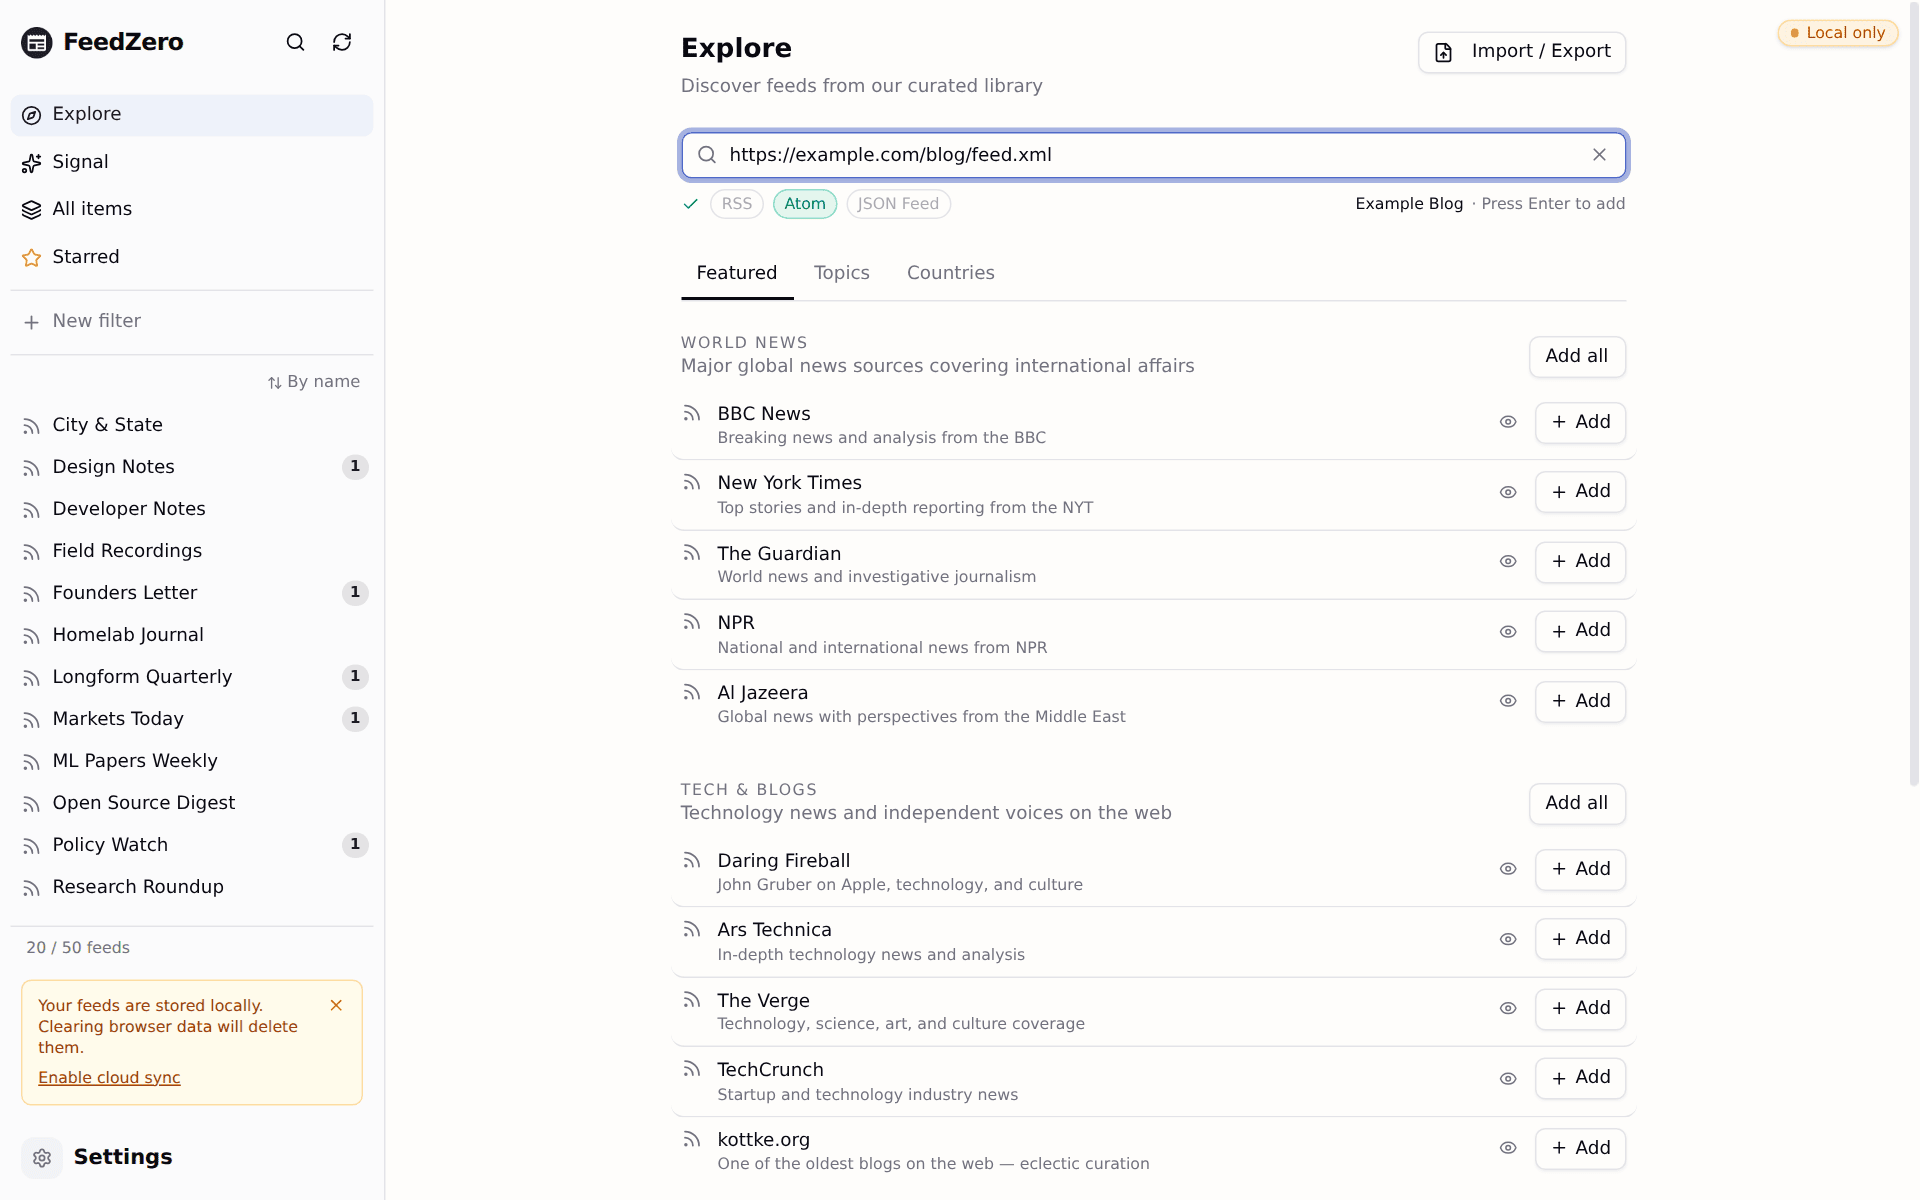
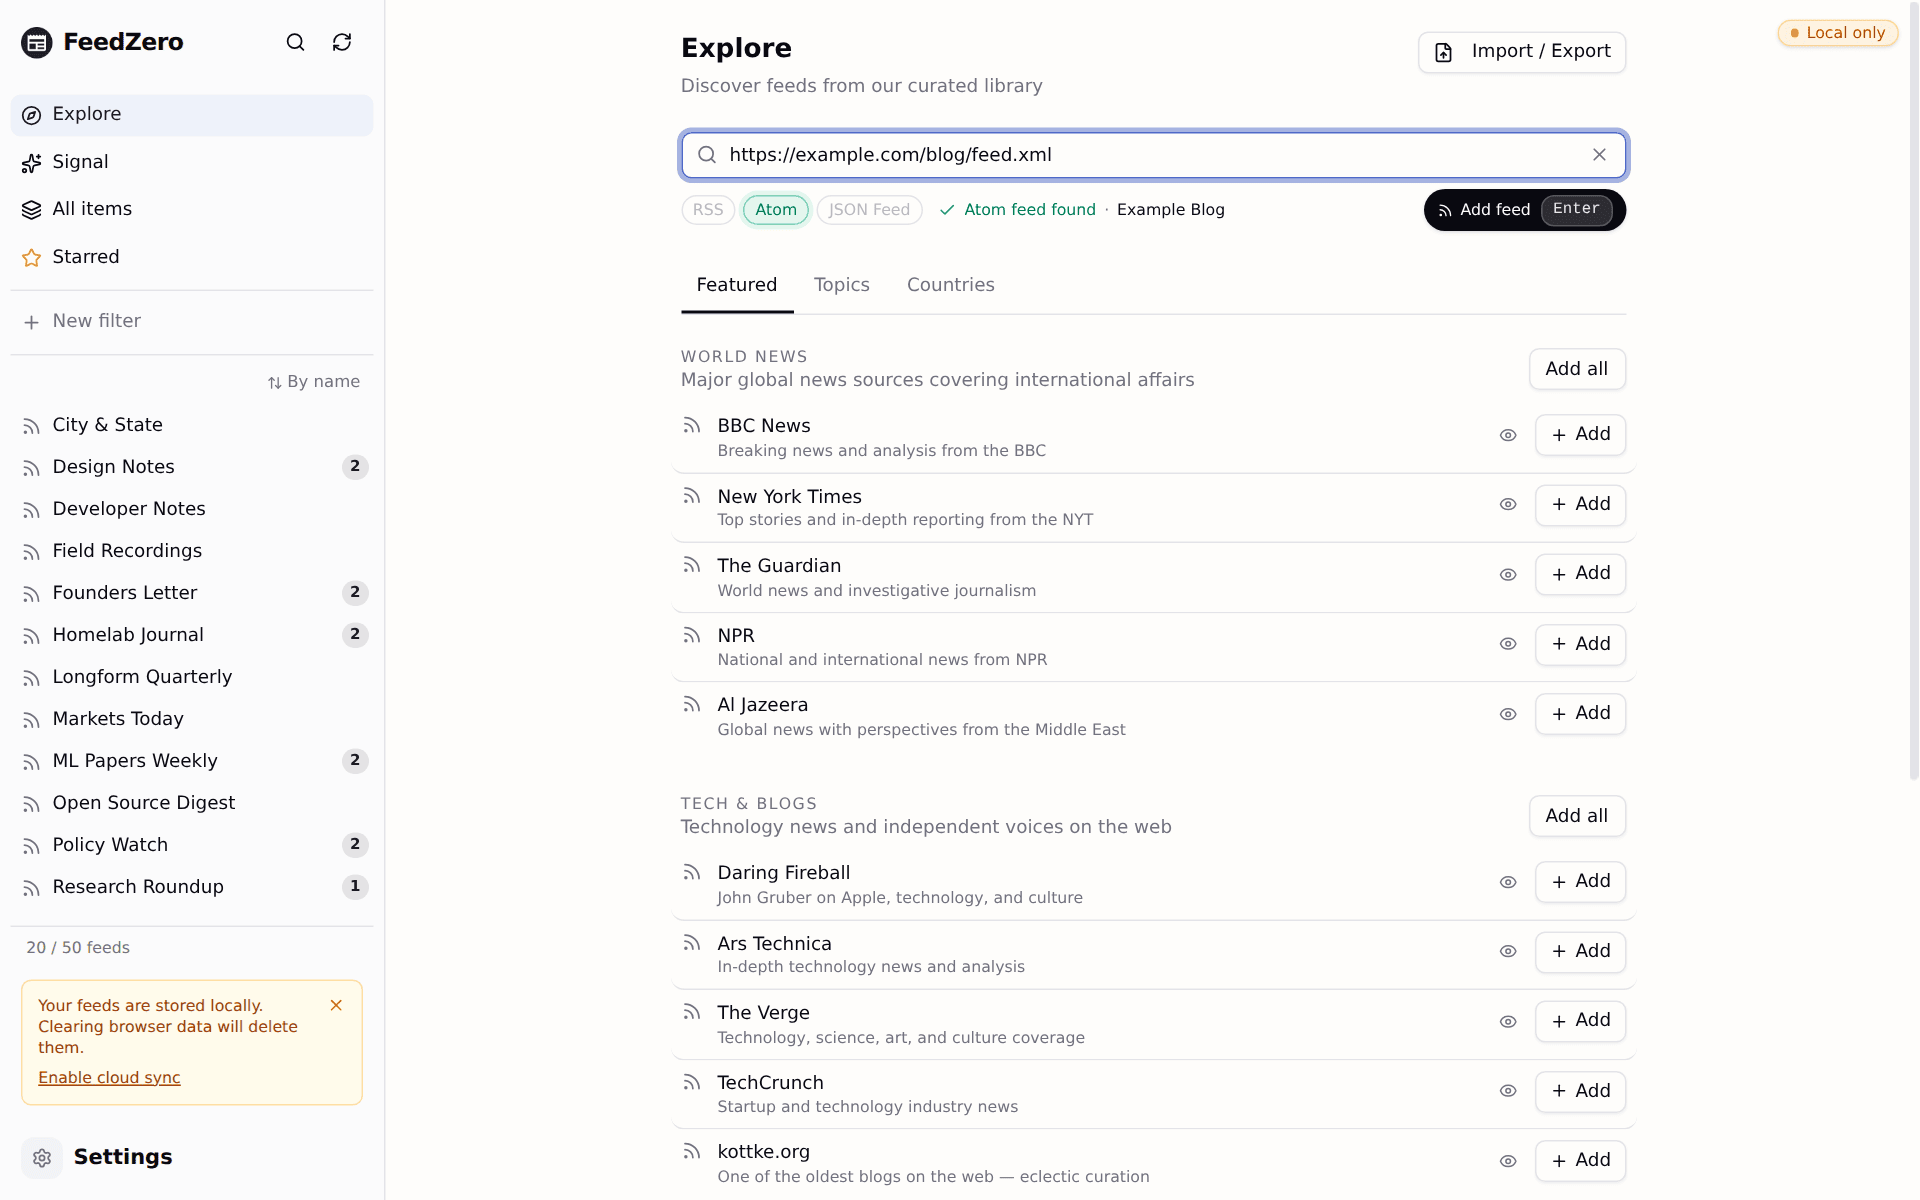
feat(explore): clearer discovery chip — "Atom feed found", "Add feed" button
Three improvements to the chip that lands under the Explore URL input.

1. **Detection result is explicit.** Replaces the muted "Example Blog ·
   Press Enter to add" trailing copy with a celebratory headline:
   "✓ Atom feed found · Example Blog". The matched format pill gets a
   subtle emerald glow ring so it actually pops against the unmatched
   pills.

2. **"Add feed" is now a clickable button.** A solid pill on the right
   of the chip with the feed icon + "Add feed" + a Kbd-styled "Enter"
   key, so mouse users have a visible affordance instead of having to
   know about the keyboard shortcut. Disabled + spinner state while
   addFeed is in flight. Routes through the same `submitUrl` callback
   that the form's Enter submission uses — single code path.

3. **Failure copy is gentler and more actionable.** Replaces "No feed
   found at that URL yet" with "We couldn't find a feed there. Try
   the homepage URL — we'll autodiscover." — the actual recovery path.

The probe-after-debounce behaviour was already correct (400ms timer →
previewFeed → state update), but the success state was failing to
celebrate itself, so users didn't see the discovery had happened.

Tests: 2 new (`celebrates the discovery…`, `renders a clickable Add
button…`, `does not render the Add button…`). The "Add button" test
covers the click-handler contract via an `onAdd` prop — same code
path the form's onSubmit uses. 8/8 chip tests pass; 3453 across the
whole suite.
[…]

diff --git a/src/components/explore/feed-format-chip.tsx b/src/components/explore/feed-format-chip.tsx
@@ -1,30 +1,33 @@
 import { useEffect, useRef, useState } from "react";
-import { Check, Loader2 } from "lucide-react";
+import { Check, Loader2, Rss, X } from "lucide-react";
 import { cn } from "@/lib/utils";
+import { Kbd } from "@/components/ui/kbd";
 import { previewFeed } from "@/core/feeds/feed-service";
 import type { FeedFormat } from "@/core/parser/parser";
 
 /**
- * The discovery chip that lives under the Explore URL input.
+ * Discovery chip under the Explore URL input.
  *
- * When the user pastes (or types) a URL, we silently probe it via
- * `previewFeed` after a brief debounce. The chip shows three format
- * pills — RSS, Atom, JSON Feed — and lights up the one feedsmith
- * actually identified. While probing, all three pills animate to
- * communicate "we're checking every format the publisher might be
- * serving".
+ * Lifecycle:
+ *   user types/pastes  →  400ms debounce  →  previewFeed() probe  →
+ *     · `found <fmt>`  — matched pill highlights; feed title appears;
+ *                        a clickable "Add feed" button (= Enter) shows
+ *     · `probing`      — spinner + "Checking…" while the probe runs
+ *     · `not-found`    — gentle "We couldn't find a feed there" copy
  *
- * This is the affordance the landing-page copy ("Paste any URL.
- * FeedZero finds the feed.") had been claiming with nothing visible
- * to back it up.
+ * The chip is the affordance the landing copy ("Paste any URL.
+ * FeedZero finds the feed.") implied; the Add button on success makes
+ * the headline action discoverable without keyboard knowledge.
  *
- * Tier note: bridges are off here — discovery against an arbitrary URL
- * is cheap, but the bridge cascade (YouTube/Reddit/Mastodon) is gated
- * to Personal and runs inside `addFeed` proper. The chip is a preview;
- * the headline action is still Enter → add.
+ * The `onAdd` callback is optional — when omitted the chip is a pure
+ * status indicator (the form still submits on Enter via its parent).
+ * When provided, clicking the button runs the same code path.
  */
 interface FeedFormatChipProps {
   url: string;
+  onAdd?: () => void;
+  /** Disable the Add button while an outer add-feed call is in flight. */
+  isAdding?: boolean;
 }
 
 type ChipState =
@@ -41,7 +44,14 @@ const FORMAT_LABELS: { format: FeedFormat; label: string }[] = [
   { format: "json", label: "JSON Feed" },
 ];
 
-export function FeedFormatChip({ url }: FeedFormatChipProps) {
+/** Format name for the celebratory headline ("Atom feed found"). */
+function formatHeadline(format: FeedFormat): string {
+  if (format === "rss") return "RSS";
+  if (format === "atom") return "Atom";
+  return "JSON";
+}
+
+export function FeedFormatChip({ url, onAdd, isAdding }: FeedFormatChipProps) {
   const [state, setState] = useState<ChipState>({ kind: "idle" });
   const generationRef = useRef(0);
 
@@ -60,7 +70,7 @@ export function FeedFormatChip({ url }: FeedFormatChipProps) {
         setState({
           kind: "found",
           format: result.value.format,
-          title: result.value.title,
+          title: result.value.title || trimmed,
         });
       } else {
         setState({ kind: "not-found" });
@@ -80,14 +90,8 @@ export function FeedFormatChip({ url }: FeedFormatChipProps) {
       data-testid="feed-format-chip"
       data-state={state.kind}
       data-format={found ? state.format : undefined}
-      className="mt-2 flex items-center gap-2 text-xs"
+      className="mt-2 flex items-center gap-3 text-xs"
     >
-      {probing && (
-        <Loader2 className="size-3 animate-spin text-muted-foreground" />
-      )}
-      {found && (
-        <Check className="size-3.5 text-emerald-600 dark:text-emerald-500" />
-      )}
       <div className="flex items-center gap-1.5">
         {FORMAT_LABELS.map(({ format, label }) => {
           const active = found && state.format === format;
@@ -99,12 +103,12 @@ export function FeedFormatChip({ url }: FeedFormatChipProps) {
               className={cn(
                 "inline-flex items-center rounded-full border px-2 py-0.5 font-medium transition-all duration-300",
                 active &&
-                  "border-emerald-500/40 bg-emerald-500/10 text-emerald-700 dark:text-emerald-300",
+                  "border-emerald-500/50 bg-emerald-500/10 text-emerald-700 dark:text-emerald-300 shadow-[0_0_0_3px_var(--tw-shadow-color)] shadow-emerald-500/10",
                 !active &&
                   found &&
-                  "border-border bg-transparent text-muted-foreground/60",
+                  "border-border bg-transparent text-muted-foreground/50",
                 probing &&
-                  "border-border bg-transparent text-muted-foreground animate-pulse",
+                  "border-border bg-transparent text-muted-foreground/70 animate-pulse",
                 notFound && "border-border bg-transparent text-muted-foreground/40",
               )}
             >
@@ -113,18 +117,64 @@ export function FeedFormatChip({ url }: FeedFormatChipProps) {
           );
         })}
       </div>
-      <span className="ml-auto text-muted-foreground">
-        {probing && "Checking every format…"}
-        {found && (
+
+      <div className="flex min-w-0 flex-1 items-center gap-1.5">
+        {probing && (
           <>
-            <span className="text-foreground">{state.title}</span>
-            <span className="ml-1.5 text-muted-foreground">
-              · Press Enter to add
+            <Loader2 className="size-3 shrink-0 animate-spin text-muted-foreground" />
+            <span className="truncate text-muted-foreground">
+              Looking for a feed…
             </span>
           </>
         )}
-        {notFound && "No feed found at that URL yet"}
-      </span>
+        {found && (
+          <>
+            <Check className="size-3.5 shrink-0 text-emerald-600 dark:text-emerald-500" />
+            <span className="truncate">
+              <span className="font-medium text-emerald-700 dark:text-emerald-400">
+                {formatHeadline(state.format)} feed found
+              </span>
+              <span className="mx-1.5 text-muted-foreground">·</span>
+              <span className="text-foreground">{state.title}</span>
+            </span>
+          </>
+        )}
+        {notFound && (
+          <>
+            <X className="size-3.5 shrink-0 text-muted-foreground/60" />
+            <span className="truncate text-muted-foreground">
+              We couldn&apos;t find a feed there. Try the homepage URL — we&apos;ll
+              autodiscover.
+            </span>
+          </>
+        )}
+      </div>
+
+      {found && onAdd && (
+        <button
+          type="button"
+          onClick={onAdd}
+          disabled={isAdding}
+          data-testid="feed-format-chip-add"
+          className={cn(
+            "inline-flex shrink-0 items-center gap-1.5 rounded-full px-2.5 py-1 text-xs font-medium",
+            "bg-foreground text-background shadow-sm transition-all",
+            "hover:brightness-110 active:scale-[0.98]",
+            "disabled:opacity-50 disabled:cursor-not-allowed",
+          )}
+          aria-label={`Add feed: ${state.title}`}
+        >
+          {isAdding ? (
+            <Loader2 className="size-3 animate-spin" />
+          ) : (
+            <Rss className="size-3" />
+          )}
+          <span>Add feed</span>
+          <Kbd className="ml-0.5 bg-background/15 text-background/90 border-background/20">
+            Enter
+          </Kbd>
+        </button>
+      )}
     </div>
   );
 }

diff --git a/tests/components/explore/feed-format-chip.test.tsx b/tests/components/explore/feed-format-chip.test.tsx
@@ -1,5 +1,6 @@
 import { describe, it, expect, vi, afterEach } from "vitest";
 import { render, screen, waitFor } from "@testing-library/react";
+import userEvent from "@testing-library/user-event";
 import { FeedFormatChip } from "@/components/explore/feed-format-chip";
 import * as feedService from "@/core/feeds/feed-service";
 
@@ -61,6 +62,56 @@ describe("FeedFormatChip", () => {
       "data-active",
       "false",
     );
+  });
+
+  it("celebrates the discovery with the format name and feed title", async () => {
+    vi.spyOn(feedService, "previewFeed").mockResolvedValue({
+      ok: true,
+      value: {
+        title: "Example Blog",
+        siteUrl: "",
+        format: "atom",
+        articles: [],
+      },
+    });
+    render(<FeedFormatChip url="https://example.com/feed.xml" />);
+    const chip = await screen.findByTestId("feed-format-chip");
+    await waitFor(() =>
+      expect(chip).toHaveAttribute("data-state", "found"),
+    );
+    expect(chip).toHaveTextContent(/atom feed found/i);
+    expect(chip).toHaveTextContent(/Example Blog/);
+  });
+
+  it("renders a clickable 'Add feed' button when a feed is found", async () => {
+    vi.spyOn(feedService, "previewFeed").mockResolvedValue({
+      ok: true,
+      value: { title: "Atom Site", siteUrl: "", format: "atom", articles: [] },
+    });
+    const onAdd = vi.fn();
+    render(
+      <FeedFormatChip url="https://example.com/feed.xml" onAdd={onAdd} />,
+    );
+    const addBtn = await screen.findByRole("button", { name: /add feed/i });
+    await userEvent.setup().click(addBtn);
+    expect(onAdd).toHaveBeenCalledTimes(1);
+  });
+
+  it("does not render the Add button while probing or when no feed found", async () => {
+    vi.spyOn(feedService, "previewFeed").mockResolvedValue({
+      ok: false,
+      error: "nope",
+    });
+    render(<FeedFormatChip url="https://example.com/feed.xml" onAdd={vi.fn()} />);
+    await waitFor(() =>
+      expect(screen.getByTestId("feed-format-chip")).toHaveAttribute(
+        "data-state",
+        "not-found",
+      ),
+    );
+    expect(
+      screen.queryByRole("button", { name: /add feed/i }),
+    ).not.toBeInTheDocument();
   });
 
   it("falls back to a 'no feed yet' state on failure", async () => {

diff --git a/src/components/explore/explore-catalog.tsx b/src/components/explore/explore-catalog.tsx
@@ -73,8 +73,12 @@ export function ExploreCatalog({ onFeedAdded }: ExploreCatalogProps) {
 
   const isUrlInput = looksLikeUrl(searchQuery);
 
-  async function handleUrlSubmit(e: React.FormEvent) {
-    e.preventDefault();
+  /**
+   * Add the URL currently in the search input. Used by both Enter
+   * submission (`<form onSubmit>`) and the explicit "Add feed" button
+   * inside the discovery chip — same code path either way.
+   */
+  const submitUrl = useCallback(async () => {
     if (!isUrlInput) return;
     const url = searchQuery.trim();
     if (!url) return;
@@ -94,6 +98,11 @@ export function ExploreCatalog({ onFeedAdded }: ExploreCatalogProps) {
     } else {
       toast.error(result.error || "Failed to add feed", { id: toastId });
     }
+  }, [isUrlInput, searchQuery, addFeed, navigate, onFeedAdded]);
+
+  async function handleUrlSubmit(e: React.FormEvent) {
+    e.preventDefault();
+    await submitUrl();
   }
 
   // Keyboard shortcuts for explore
@@ -235,7 +244,11 @@ export function ExploreCatalog({ onFeedAdded }: ExploreCatalogProps) {
           )}
         </div>
         {isUrlInput && searchQuery.trim() ? (
-          <FeedFormatChip url={searchQuery.trim()} />
+          <FeedFormatChip
+            url={searchQuery.trim()}
+            onAdd={submitUrl}
+            isAdding={isAddingFeed}
+          />
         ) : searchFocused && (
           <p className="flex items-center gap-3 text-xs text-muted-foreground mt-2">
             <span><Kbd>↓</Kbd> or <Kbd>Tab</Kbd> to browse</span>
